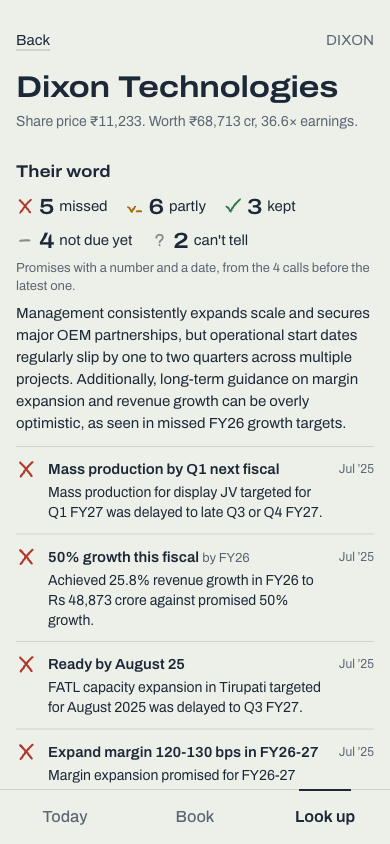
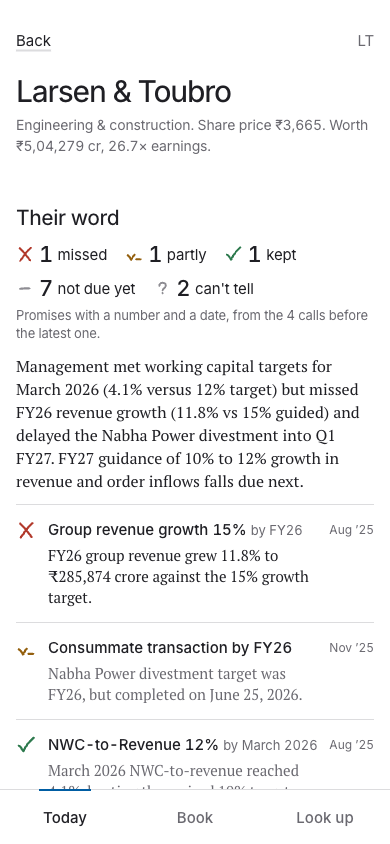
Update README with live screenshots

diff --git a/docs/PROGRESS.md b/docs/PROGRESS.md
@@ -1,6 +1,6 @@
 # Progress
 
-Next: keep polishing from the 'Never sit idle' list. Background: `pgrep -f regrade.sh` sleeps to 12:40 IST 29 Oct, then regrades the 8 flash-lite companies (log data/regrade2.log). When it finishes: compare verdicts, rerun evals/sample_grades.py and update evals/grades_review.md, redeploy, recheck screenshots. If the job died, restart: `nohup zsh pipeline/regrade.sh > data/regrade2.log 2>&1 &`.
+Next: design upgrade critic round (designer, ENAM evaluator, muted investor) on the new screenshots in docs/img vs shots/ref-bdc-390*.png, then fix. Background: `pgrep -f regrade.sh` sleeps to 12:40 IST 29 Oct, then regrades the 8 flash-lite companies (log data/regrade2.log). When it finishes: compare verdicts, rerun evals/sample_grades.py and update evals/grades_review.md, redeploy, recheck screenshots. If the job died, restart: `nohup zsh pipeline/regrade.sh > data/regrade2.log 2>&1 &`.
 
 - [x] Brief analysis, company notes, ideation (docs/)
 - [x] Engine: finn/ (sources, classify, triage, results, people, ledger, research)
@@ -45,3 +45,9 @@ Next: keep polishing from the 'Never sit idle' list. Background: `pgrep -f regra
 - Promise marks (tick, cross, ring) draw when they scroll into view, not all at once on load, so cards lower on Today and Book get their pencil stroke when the reader reaches them (one shared IntersectionObserver; reduced motion unchanged). Tested at 390x844 (Today far card, Book scroll, company → Back); deployed and checked live 28 Oct ~14:15 IST
 - Company numbers: negative figures (cash conversion cycle, return on capital, debt to equity, ₹ crore) use a true minus (−151 days, was -151), matching the % figures elsewhere. Tested at 390x844 on L&T; deployed and checked live 28 Oct ~14:30 IST
 - Company numbers: Profit after tax and Net interest income show the change on a year ago (from the same quarter a year back in the file), like Revenue already did; Home First was ₹170 cr with nothing under it, now +29%, matching its Today card. Tested at 390x844 on Home First and L&T; deployed and checked live 28 Oct ~14:02 IST
+
+## Design upgrade (28 Oct)
+- Studied the reference at 390x844 (shots/ref-bdc-390*.png, not committed) and its source: Inter + PT Serif, 30/26/21/16/14 mobile scale with tight tracking, hairlines, pill controls, stagger fade on expo-decelerate. Rules in design/inspiration.md
+- ENAM palette sampled from enam.com: white, black, grey #6A6970, ENAM blue #005DA3, #D2D2D2 rules. DESIGN.md now has the palette with roles and contrast, and the new type
+- Restyle (CSS + fonts, no feature changes): white ground, ENAM blue only on the primary button, active tab and newest volume bar; Today cards are hairline sections, not tinted boxes; 72px headline count; window choice is pills; Look up input is a single underline with a blue pill button; PT Serif for the sentences FINN says (story lines, the read, verdicts, notes); one reveal (fade and rise 12px, 900 ms, first three staggered) via one observer in main.tsx; reduced motion shows everything in place. Icon is a white tick on ENAM blue
+- Tested at 390x844 (Today, Book, Company, Look up, Your lines); deployed and checked live 28 Oct ~16:22 IST; README screenshots retaken from the live link; DECISIONS design paragraph updated

diff --git a/docs/NEEDS_FROM_USER.md b/docs/NEEDS_FROM_USER.md
@@ -4,6 +4,7 @@
 - GitHub repo published (public): https://github.com/vedant-22/finn. Pushing new commits to `origin main` is fine.
 
 ## Optional
+- **Stray Vercel project 'web' (optional cleanup).** A deploy run from the wrong folder on 28 Oct created an empty-ish project named `web` next to `finn-ledger`. It is behind Vercel login and harmless; delete it in the Vercel dashboard if you like. The live app is `finn-ledger`.
 - **Gemini paid tier (optional).** The key in `.env` is on the free tier. `gemini-3.1-pro-preview` and `gemini-4-argon` return 429 (zero quota), so the "smart" step uses `gemini-3.5-flash`. If you enable billing, set `FINN_SMART_MODEL=gemini-3.1-pro-preview` in Vercel to try the stronger model on grading only. Free-tier daily limits are shared by everyone who opens the live link, so heavy use of live research on new tickers may hit 429s; cached companies are unaffected.
 - **Email submission.** Send the covering note (docs/COVERING_NOTE.md) to assessment@enam.com with subject "ENAM - IIT screening - 2027", plus the AI build history export of this session.
 - **Covering note signed** (Vedant Tiwari, IIT Kanpur, vedant22@iitk.ac.in).

diff --git a/docs/DECISIONS.md b/docs/DECISIONS.md
@@ -47,7 +47,7 @@ Passed on: a feed with summaries (what MarketPing, Stox AI and Alpha Tribe alrea
 
 ## Design
 
-Working-paper look: pale green paper and blue-black ink, with auditor's tick marks drawn in coloured pencil. One typeface (Archivo) using its width axis instead of a second family. Details in `DESIGN.md`. I passed on dark mode and a chat input. Both pull toward a trading terminal, which is the wrong world for a long-only fund.
+Working-paper look, kept simple: white ground, near-black ink, ENAM blue used rarely, and auditor's tick marks drawn in coloured pencil. Inter for headings and figures, PT Serif for the sentences where FINN explains. Sections are split by hairlines, not boxes, and blocks fade in as they scroll into view. The rules are in `design/inspiration.md` and `DESIGN.md`. (The first version used pale green paper and Archivo; the 28 Oct redesign made it calmer.) I passed on dark mode and a chat input. Both pull toward a trading terminal, which is the wrong world for a long-only fund.
 
 ## Deviations from my working guidelines
 
